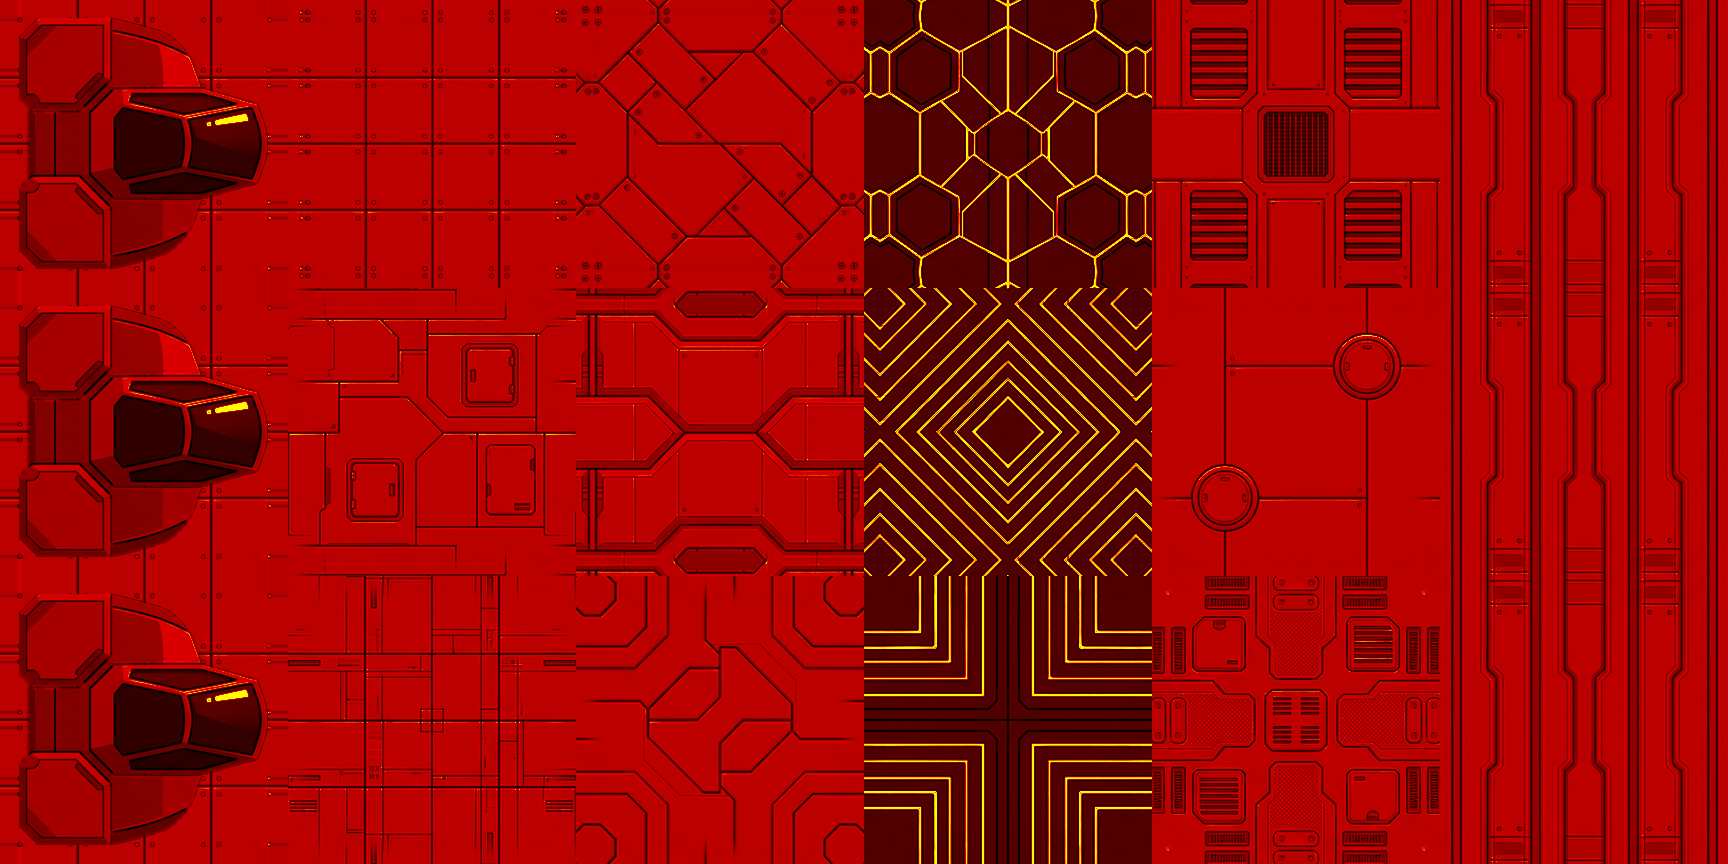
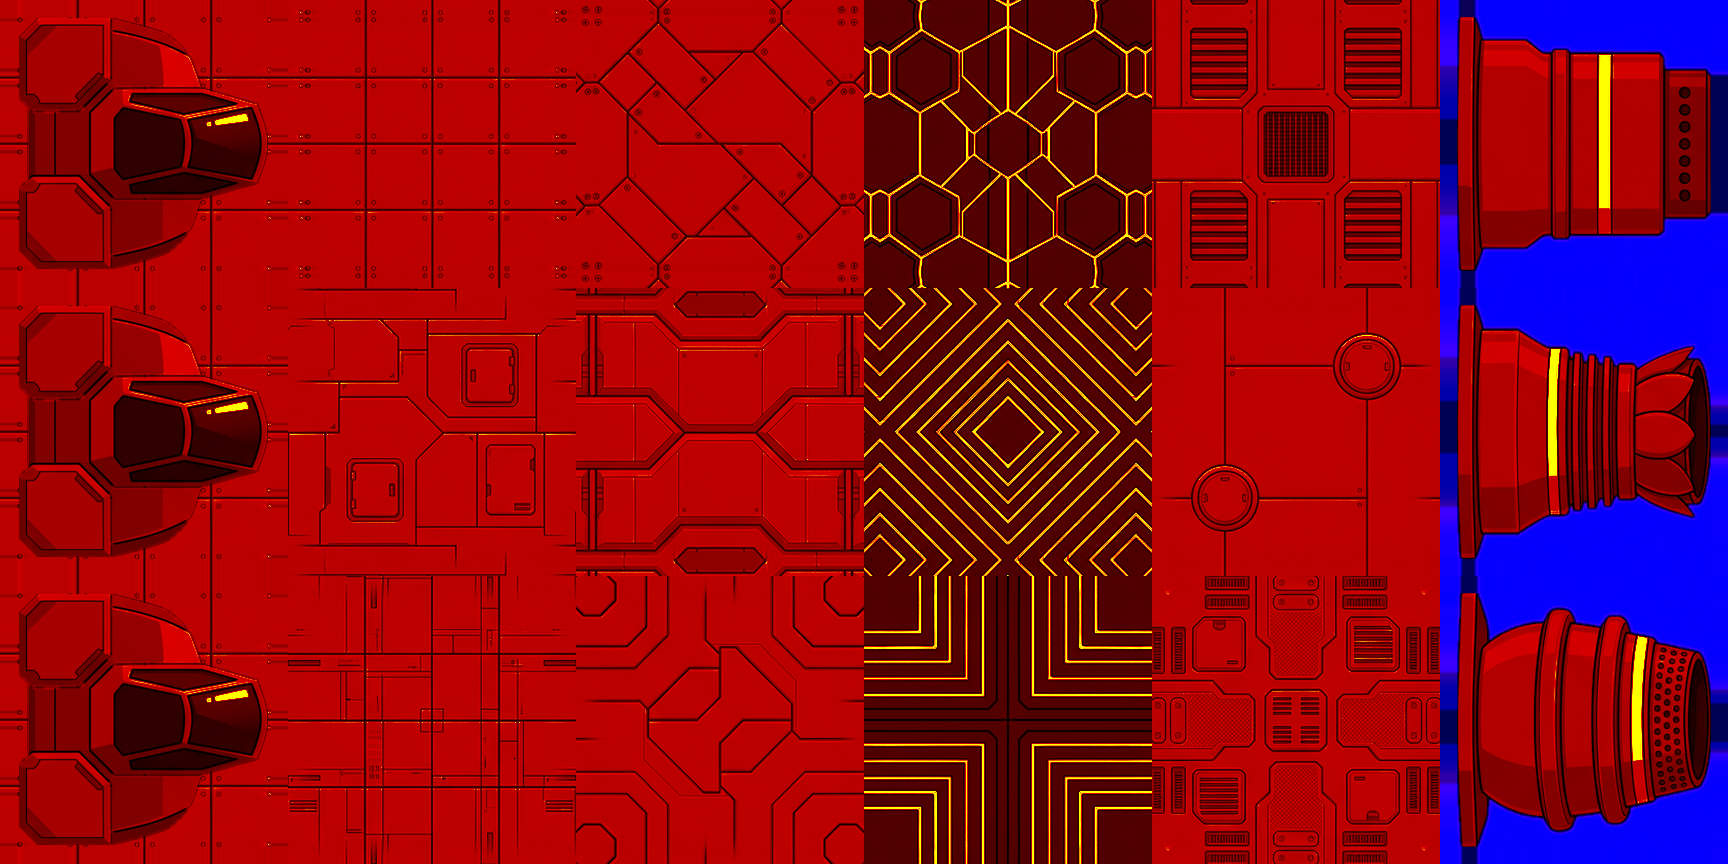
Art A.2: thruster nozzles in the game, a picture per type cut to its silhouette
One Gemini sheet, one type per row (pulse, jet, ion). The slicer's new `part` kind keys
chroma green and puts the cut-out in the atlas's B channel; the thruster column holds a
nozzle per type. The ship mesh draws a nozzle as its footprint box in the nozzle's own
frame, so one picture serves S/M/L and every side, and its trim band shows the level
(bronze, silver, gold). The thruster showcase now draws the real nozzles at L1-3.
tiles_materials_v2.jpeg dropped (perspective cores, unused).

Changed region(s): [[0.8125, 0.0, 1.0, 1.0]]

diff --git a/tools/slice_sheets.py b/tools/slice_sheets.py
@@ -19,6 +19,13 @@ draws them 4-8 px wide and not always centred) and its edges are evened out so i
 pulling each edge pair toward their mean over a narrow band. That fixes Gemini's near-seamless
 textures without the ghosting a cross-fade puts on straight panel lines.
 
+A part (A.2's thruster nozzles) is drawn on chroma green, because its nozzle mouth is as dark
+as a black background. Green is keyed the same way, by a flood fill from the border, and its
+spill is removed by reading the grey from R and B only (the art is greyscale, so G is the only
+channel the green bleeds into). The art is stretched to fill the whole cell, since the game
+samples a part in its own frame (flange to mouth, along the edge), and its coverage goes into B
+inverted: B = 255 is cut out, so the placeholder atlas (B = 0) stays solid.
+
 Atlas layout (the ship shader's contract): a column per entry of a row, a row per variant, every
 cell padded by cell_px / 16 on each side (wrapped for materials, edge-extended otherwise), so
 mipmaps and linear filtering never read a neighbouring cell. The pad is 1/18 of the stride
@@ -42,6 +49,7 @@ GUTTER_LUMA = 40          # a gutter column/row is darker than this on average
 INSET_PX = 3              # cut this far inside the gutters, past the JPEG ringing
 EVEN_BAND_PX = 16         # how far in from each edge the seam correction reaches
 TRIM_FROM, TRIM_TO = 225, 250   # near-white becomes the untinted trim mask (G)
+GREEN_MARGIN = 60         # chroma key: G exceeds both R and B by more than this
 
 
 def luma(rgb: np.ndarray) -> np.ndarray:
@@ -150,8 +158,28 @@ def cut_keyed(rgb: np.ndarray, size: int, base: np.ndarray, fill: float,
     return np.asarray(out).astype(np.float32)
 
 
+def cut_part(rgb: np.ndarray, size: int, report: list[str], ident: str) -> tuple[np.ndarray, np.ndarray]:
+    """Key a part off its chroma-green background and stretch it over the whole cell. Returns
+    (grey, coverage 0..1)."""
+    r, g, b = rgb[..., 0], rgb[..., 1], rgb[..., 2]
+    green = (g - np.maximum(r, b)) > GREEN_MARGIN
+    # Gemini sometimes rules a thin dark grid line on the cell border: treat it as background.
+    green[:INSET_PX, :] = green[-INSET_PX:, :] = True
+    green[:, :INSET_PX] = green[:, -INSET_PX:] = True
+    cover = box_blur3((~fill_from_border(green)).astype(np.float32))
+    ys, xs = np.nonzero(cover > 0.5)
+    x0, y0, x1, y1 = xs.min(), ys.min(), xs.max() + 1, ys.max() + 1
+    grey = (r + b) / 2.0
+    stretch = lambda a: np.asarray(Image.fromarray(np.clip(a, 0, 255).astype(np.uint8), "L")
+                                   .resize((size, size), Image.Resampling.LANCZOS)).astype(np.float32)
+    out_grey, out_cover = stretch(grey[y0:y1, x0:x1]), stretch(cover[y0:y1, x0:x1] * 255) / 255
+    report.append(f"  {ident:16s} part      {x1 - x0}x{y1 - y0} -> {size}x{size}  "
+                  f"covers {out_cover.mean():.0%}  trim {(out_grey * out_cover >= TRIM_FROM).mean():.1%}")
+    return out_grey, out_cover
+
+
 def slice_sheet(name: str, spec: dict, cells: dict[str, np.ndarray], kinds: dict[str, str],
-                size: int, report: list[str]) -> None:
+                covers: dict[str, np.ndarray], size: int, report: list[str]) -> None:
     src = ART / spec["file"]
     rgb = np.asarray(Image.open(src).convert("RGB")).astype(np.float32)
     rows, cols = spec["grid"]
@@ -168,6 +196,8 @@ def slice_sheet(name: str, spec: dict, cells: dict[str, np.ndarray], kinds: dict
             cells[ident] = cut_material(window, size, report, ident)
         elif kind == "overlay":
             cells[ident] = cut_overlay(window, size, report, ident)
+        elif kind == "part":
+            cells[ident], covers[ident] = cut_part(window, size, report, ident)
         elif kind == "keyed":
             cells[ident] = cut_keyed(window, size, cells[options["base"]], float(options.get("fill", 0.9)),
                                      report, ident)
@@ -197,7 +227,8 @@ def review(name: str, spec: dict, cells: dict[str, np.ndarray], path: Path) -> N
     sheet.save(path)
 
 
-def pack(name: str, spec: dict, cells: dict[str, np.ndarray], kinds: dict[str, str], report: list[str]) -> None:
+def pack(name: str, spec: dict, cells: dict[str, np.ndarray], kinds: dict[str, str],
+         covers: dict[str, np.ndarray], report: list[str]) -> None:
     size = int(spec["cell_px"])
     pad = size // 16
     stride = size + 2 * pad
@@ -216,6 +247,10 @@ def pack(name: str, spec: dict, cells: dict[str, np.ndarray], kinds: dict[str, s
             if spec.get("trim", False):
                 trim = np.clip((padded - TRIM_FROM) / (TRIM_TO - TRIM_FROM), 0, 1)
                 block[..., 1] = (trim * 255).astype(np.uint8)
+            if ident in covers:
+                cover = np.pad(covers[ident], pad, mode="edge")
+                block[..., 1] = (block[..., 1] * cover).astype(np.uint8)
+                block[..., 2] = ((1 - cover) * 255).astype(np.uint8)
     path = ROOT / spec["out"]
     path.parent.mkdir(parents=True, exist_ok=True)
     Image.fromarray(out, "RGBA").save(path)
@@ -228,15 +263,16 @@ def main() -> int:
     size = max(int(a["cell_px"]) for a in config["atlases"].values())
     cells: dict[str, np.ndarray] = {}
     kinds: dict[str, str] = {}
+    covers: dict[str, np.ndarray] = {}
     report: list[str] = []
     for name, spec in config["sheets"].items():
-        slice_sheet(name, spec, cells, kinds, size, report)
+        slice_sheet(name, spec, cells, kinds, covers, size, report)
     for name, spec in config["atlases"].items():
         missing = [i for row in spec["rows"] for i in row if i not in cells]
         if missing:
             print(f"{name}: no cell called {', '.join(sorted(set(missing)))}", file=sys.stderr)
             return 1
-        pack(name, spec, cells, kinds, report)
+        pack(name, spec, cells, kinds, covers, report)
     print("\n".join(report))
     return 0
 

diff --git a/Docs/ART_PROMPT.md b/Docs/ART_PROMPT.md
@@ -144,7 +144,7 @@ band for the colour the player picked and keeps the shading. Each hue is far fro
 |---|---|---|---|---|
 | A.1 | `tiles_materials` | `art_src/tiles/` | 15 | ✅ in the game 2026-10-26: hull, armour, hardpoint |
 | A.1b | `tiles_cores_shields` | `art_src/tiles/` | 12 | ✅ in the game 2026-10-26: core, shields, damage |
-| A.2 | `parts_thrusters` | `art_src/parts/` | 9 | to write |
+| A.2 | `parts_thrusters` | `art_src/parts/` | 12 | ✅ in the game 2026-10-27: a nozzle per type |
 | A.3 | `parts_weapons_*` | `art_src/parts/` | 2–3 sheets | to write |
 | A.4 | `icons_*` | `art_src/icons/` | 2 sheets | to write |
 | A.5 | `chrome_*` | `art_src/ui/` | one canvas per piece | to write |
@@ -344,6 +344,122 @@ Exactly what was asked, row by row, so asking one kind per row worked.
 
 Cut and packed by `tools/slice_sheets.py` (cells and kinds in `art_src/sheets.json`). See it
 with `tools/preview.sh res://dev_preview/art_tiles.tscn 1800x700 --ship=gunboat --zoom=2.2`.
+
+---
+
+## parts_thrusters
+
+**A.2: 12 cells, rows 1–3; row 4 stays empty. Save it as `art_src/parts/parts_thrusters.png`.**
+
+The nozzles currently borrow a ribbed panel, tinted per type. This sheet gives each type its
+own part, **one type per row** (the A.1b lesson), with four variants per row to pick from.
+
+**Why not 9 cells (type × S/M/L):** a nozzle is the same shape at every size. It covers
+0.25 / 0.5 / 1 U of a hardpoint edge and sticks out half that (`Mounting.nozzle()`: a
+trapezoid that narrows by 15% each side away from the hull). A Small one is 16 × 8 px at
+rest zoom, so a separate Small drawing would never be seen. Size is geometry, not art.
+
+Its shape is fixed by that trapezoid. **The exhaust points right** (house rule), so the edge it
+bolts to runs up and down: a nozzle is **twice as tall as it is long**, full height at the
+flange on the left, about 70% at the mouth on the right.
+
+| Row | Type | What sells it (§4.3) |
+|---|---|---|
+| 1 | Pulse | Cheap, blocky, industrial: a thumper that kicks every half second |
+| 2 | Jet | Hot and mechanical: a ribbed combustion nozzle with petal flaps |
+| 3 | Ion | The best: smooth, precise, wrapped in coils |
+
+```
+A 1024x1024 sprite sheet of spaceship thruster nozzles for a top-down 2D spaceship
+building game, arranged on a strict 4x4 grid of 256x256 cells. Rows 1 to 3 are
+filled, 4 cells each, one nozzle per cell, centred in its cell. ROW 4 IS
+COMPLETELY EMPTY, flat chroma green.
+
+BACKGROUND: flat pure chroma green #00FF00 everywhere there is no artwork: around
+every nozzle, between the nozzles and in all of row 4. No gradient, no shadow on
+the background, no grid lines, no borders or frames.
+
+STYLE: clean, crisp sci-fi machinery seen from DIRECTLY ABOVE, perfectly flat and
+orthographic, like an engine part bolted to the edge of a starship in a top-down
+space game. Flat shading with a little bevel on edges, light from the upper left,
+fine readable detail that still reads when shrunk to 32 pixels. NOT perspective,
+NOT isometric, NOT a 3D render, NOT a photo, NOT pixel art. No cast shadows.
+
+COLOUR: STRICTLY GREYSCALE. No colour at all, no tint, no hue, and NO GREEN
+anywhere in the artwork. Light-to-mid greys (around 55% to 80% brightness); dark
+greys and black only in recesses and inside the nozzle mouth. Each nozzle has
+exactly ONE thin band of PURE WHITE #FFFFFF running across its body from top to
+bottom, like a painted trim ring; nothing else on it is pure white.
+
+EVERY NOZZLE HAS THE SAME SHAPE AND FACING. It lies flat, seen from above, with
+its exhaust pointing RIGHT, so we see its outline side-on:
+- It is TALL AND NARROW: about 230 pixels tall and 115 pixels wide, twice as tall
+  as it is wide.
+- Its LEFT side is a flat, straight mounting flange running its full height,
+  where it bolts onto the ship.
+- It narrows evenly towards the RIGHT. Its right end, the nozzle mouth, is about
+  70% as tall as the flange.
+- The mouth is a dark opening with a bevelled rim. NO flame, NO glow, NO exhaust,
+  NO light coming out of it.
+
+EACH ROW IS ONE TYPE OF THRUSTER, four variants of one design family per row:
+
+ROW 1, four cells: PULSE THRUSTERS. Chunky and blocky: a heavy squared-off
+housing with thick riveted reinforcing bands and a short square mouth with a row
+of small round vent ports, like an industrial piston thumper. The cheapest,
+toughest-looking engine.
+
+ROW 2, four cells: JET THRUSTERS. A combustion engine: the housing tapers in
+clear stacked segments with ribbed cooling fins, into a mouth ringed by
+overlapping petal-shaped nozzle flaps. Mechanical and powerful.
+
+ROW 3, four cells: ION THRUSTERS. A high-tech drive: a smooth rounded housing
+wrapped in two or three raised magnetic coil bands, ending in a mouth covered by
+a fine grid of tiny holes. Sleek, precise, the most advanced engine.
+
+The three rows must be easy to tell apart at a glance by shape alone: pulse is
+blocky and square, jet is ribbed with petal flaps, ion is smooth and coiled.
+
+ROW 4: completely empty, flat chroma green.
+
+ABSOLUTELY NO TEXT of any kind: no labels, no numbers, no letters, no digits, no
+logos, no emblems, no insignia, no warning signs.
+
+Original designs only: nothing resembling a thruster or ship from any film, TV
+show or game.
+
+Remember: no text, no colour, no green in the art, no flames or glow, every
+exhaust points right, and row 4 is empty.
+```
+
+**What happens to it.**
+- The slicer keys off the green (flood-filled from the border, as `keyed` does with black;
+  the green key gets added when the sheet arrives) and keeps the cut-out as a coverage mask,
+  so the nozzle is drawn with the art's own silhouette, not a plain trapezoid.
+- The best variant of each type goes into the thruster column of `tile_atlas.png`, **one type
+  per variant row** (pulse, jet, ion), in place of `ribs`. No new texture, so the ship stays one
+  draw call.
+- The game samples it in the **nozzle's own frame**: across from the flange to the mouth, and
+  along the edge. So it turns with the mount, and the same picture serves S, M and L.
+- The white band becomes the trim mask (G), coloured **by level** (L1–3, §8 A.2) in place of
+  today's whole-nozzle type tint. Type then reads from the shape.
+
+### Review, 2026-10-27: what came back
+
+Right on the first try where it mattered: three rows that read as three types at a glance,
+greyscale, no glow, every exhaust pointing right, and most cells with the white band.
+- **Gemini ignored the proportions.** It drew each nozzle about as long as it is tall,
+  filling the cell, not half as long. Squashed to the game's 2:1 they still read, because the
+  slicer stretches a part over its whole cell anyway. **Pixel sizes in a prompt are ignored;
+  the cell's shape wins.** If a later part needs a set proportion, ask for it relative to
+  something drawn in the same cell.
+- It ruled thin dark grid lines on the cell borders. The `part` cut treats a 3 px border as
+  background.
+- **Used:** pulse 2 (vent ports and a white band; 1 has no band), jet 7, ion 11 (the hole grid).
+  The rest are spares in the master.
+
+Seen with `tools/preview.sh res://scenes/debug/thruster_fx_showcase.tscn 1560x720 --frames=45`
+(every type × size × level) and `art_tiles.tscn --ship=meteor` (ion) or `--ship=harrier` (jet).
 
 ---
 

diff --git a/Docs/PLAN.md b/Docs/PLAN.md
@@ -1666,7 +1666,7 @@ contract). The owner generates in Gemini, and then we review, slice and stage.
 |---|---|---|---|
 | A.0 | ✅ 2026-10-26. **Art direction** `[D3]`: the style sentence, four tiers (world, chrome and icons, portraits, backdrops), the palette (chrome sampled from Menu Theme) and the portrait key hues, all in `Docs/ART_PROMPT.md`'s header with the canvas contract and house rules | – | before A.1 |
 | A.1 | Tile materials: Hull, Armor, Shield, Hardpoint (greyscale and seamless) + Core design. **First sheet, so it also carries the slicer port**: AOD's `slice_ui_sheets.py` → `tools/slice_sheets.py` with a per-sheet config (grid, key colour, glow list), proven on this sheet. ⚠ Materials are sampled in ship space (one repeat per U), so a Large hex core shows the canopy several times; the **core design needs tile-local UVs**, unlike the seamless materials. ✅ 2026-10-26: `tools/slice_sheets.py` (flood-fill key, cut inside the gutters, seams evened) packs `art_src/sheets.json`'s cells into `assets/tiles/tile_atlas.png` (a column per type, 3 variants, padded for mipmaps) and `tile_damage.png` (an overlay per wear step, in place of the procedural cracks). The core is textured in its own box, so its cockpit appears once. Gemini ignored a 15-item list but followed one kind per row. | 1 sheet (5 cells + 2 variants each) | 2.4 |
-| A.2 | Thrusters: pulse, jet and ion nozzles × Small/Medium/Large, top-down, on chroma green. L1–3 shown by a trim colour in the shader. | 1 sheet (9 cells) | 3.6 |
+| A.2 | ✅ 2026-10-27. **Thrusters**: one Gemini sheet, one type per row (`ART_PROMPT.md` `parts_thrusters`). The slicer's `part` kind keys chroma green, takes the grey from R and B (the spill is all in G) and stretches the art over the cell; its cut-out goes in the atlas's B (1 = cut out, so the placeholder stays solid). The thruster column holds pulse, jet and ion in its three rows. `ShipMesh._add_part` draws a nozzle as its whole footprint box in the nozzle's own frame, so one picture serves every size and side, and the shader cuts it to the art's silhouette with no bevel. The trim band shows the level (L1–3 bronze, silver, gold; visuals.json). No S/M/L cells: a nozzle is the same shape at every size. ⚠ A canvas_item fragment can't `return`, and the headless tests never compile the shader, so a shader change needs a preview. | 1 sheet (12 cells) | 3.6 |
 | A.3 | Weapons: turret **base and barrel as separate cells** (so barrels can rotate), 8 types; level tiers shown by a trim colour | 2–3 sheets | 4.5 |
 | A.4 | Icons: 5 resources (Tech drawn as wires, plus GC), 5 tile types, 8 weapon icons, 3 thruster icons, HUD buttons (fire, switch, pause, boost), WaveTime power-ups | 2 sheets | 4.7, 8.3 |
 | A.5 | UI chrome after the Menu Theme reference: panel, button (normal/pressed/disabled × orange/green/red), header bar, frame, progress bars | one canvas per chrome piece + 1 widget sheet | 6.1 |

diff --git a/game/assets/LICENCES.md b/game/assets/LICENCES.md
@@ -16,4 +16,4 @@ Rows may name a folder (ending in `/`) when every file in it shares one source.
 |---|---|---|---|---|
 | `placeholders/` | project | Herman Ras | MIT | Stand-in art, replaced by the art track |
 | `branding/` | generated | Herman Ras | see GeminiCopyRight.md | Icon and splash, built from `art_src/icons/` and `art_src/backgrounds/` by `tools/make_branding.py`. Gemini (owner confirmed). The splash is temporary: it has X-wing-like fighters and gets regenerated from in-game ships (PLAN.md 15.3) |
-| `tiles/` | generated | Herman Ras | see GeminiCopyRight.md | Tile materials, the core and damage overlays (A.1), cut and packed by `tools/slice_sheets.py` from the Gemini masters `art_src/tiles/tiles_materials.jpeg` and `tiles_cores_shields.jpeg` |
+| `tiles/` | generated | Herman Ras | see GeminiCopyRight.md | Tile materials, the core and damage overlays (A.1) and the thruster nozzles (A.2), cut and packed by `tools/slice_sheets.py` from the Gemini masters `art_src/tiles/tiles_materials.jpeg`, `tiles_cores_shields.jpeg` and `art_src/parts/parts_thrusters.jpeg` |
